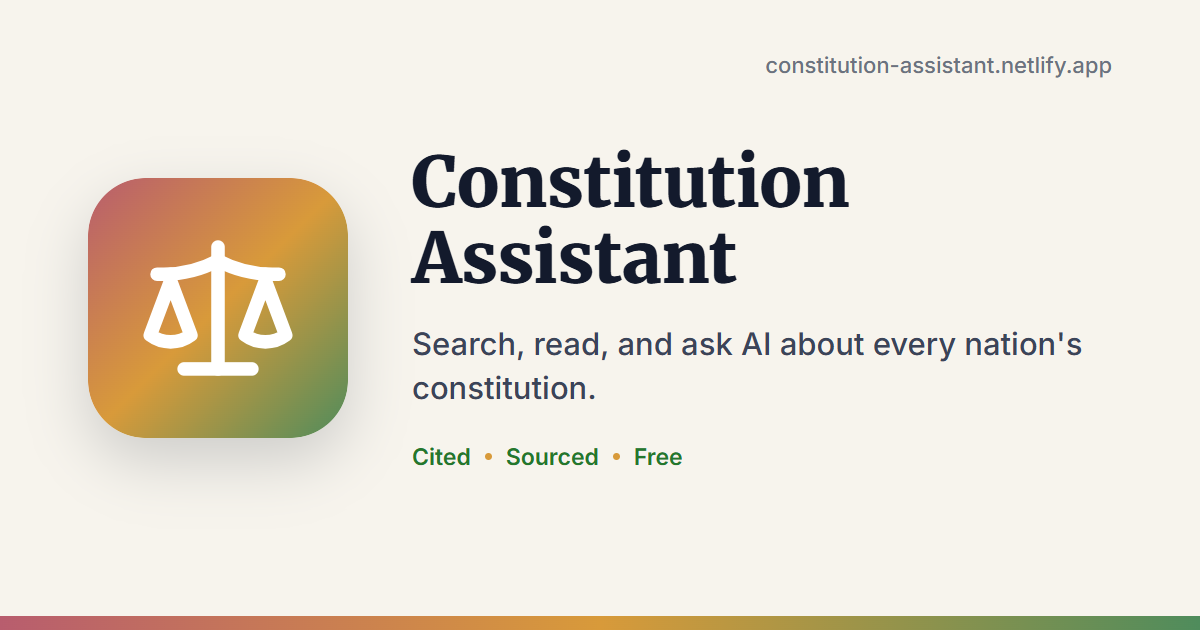
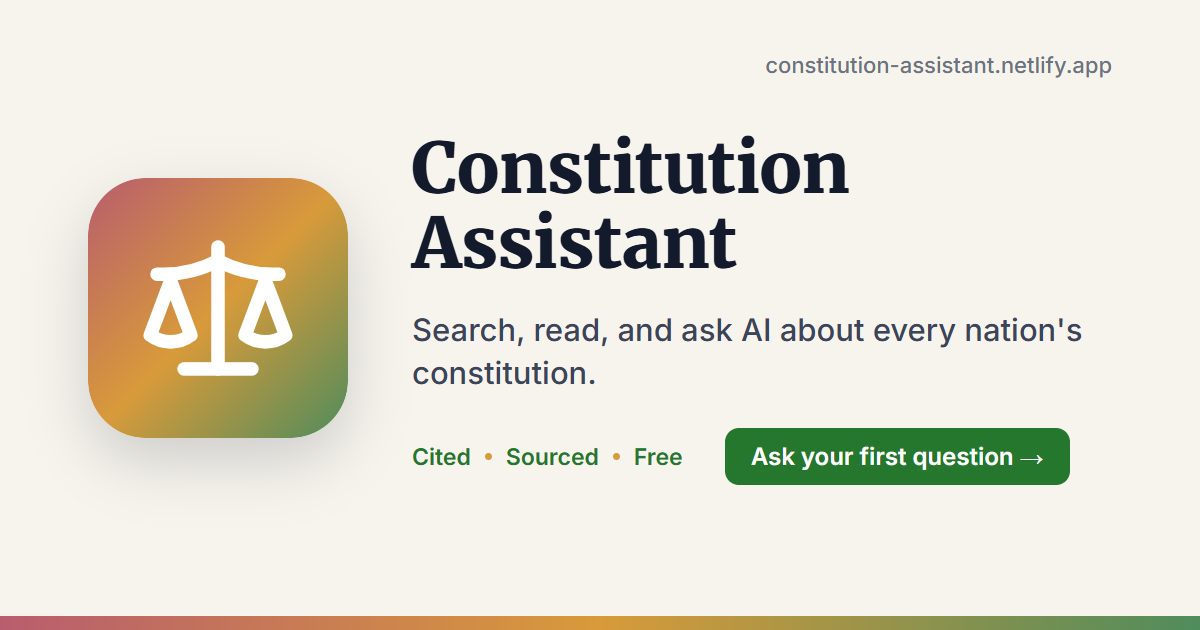
Shorter page title for search results, call-to-action button on the link-preview image

Changed region(s): [[0.3392, 0.2111, 0.7092, 0.4524], [0.3392, 0.5127, 0.925, 0.6333], [0.5858, 0.6635, 0.8942, 0.7841]]

diff --git a/index.html b/index.html
@@ -11,7 +11,7 @@
     <link rel="icon" type="image/svg+xml" href="/favicon.svg" />
     <link rel="apple-touch-icon" href="/apple-touch-icon.png" />
 
-    <title>Constitution Assistant — The World's Constitutions, Cited and Understood</title>
+    <title>Constitution Assistant — World Constitutions, Cited</title>
     <meta name="description" content="Browse, listen to, and ask questions about constitutional law from every country. Every AI answer carries cited primary sources. Free and globally available." />
     <meta name="application-name" content="Constitution Assistant" />
     <meta name="author" content="Constitution Assistant" />
